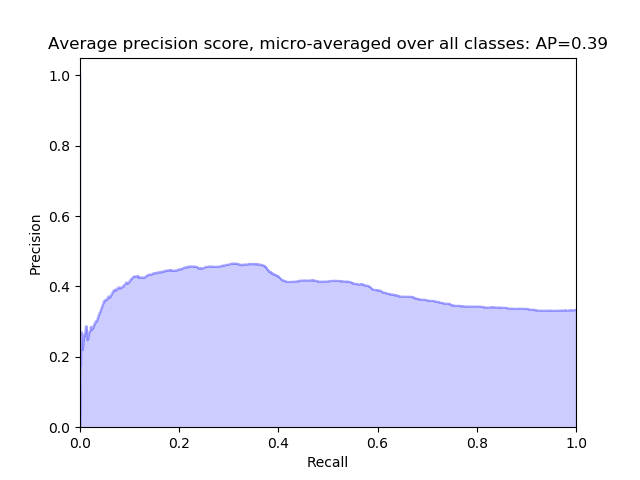
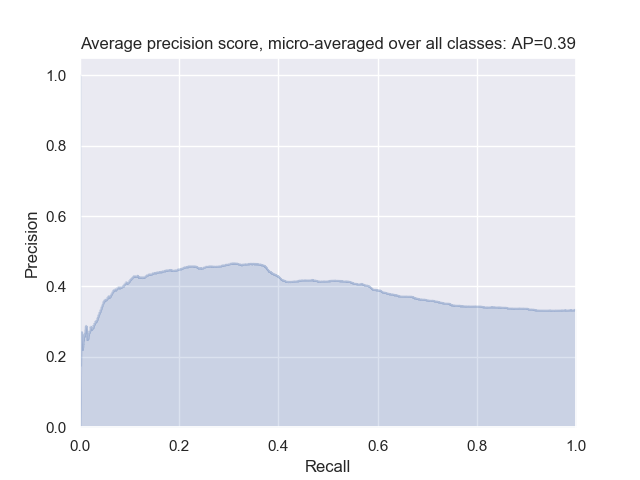
Save

diff --git a/SVM_Classifier/svm_usage.py b/SVM_Classifier/svm_usage.py
@@ -6,21 +6,23 @@ from sklearn.metrics import confusion_matrix, balanced_accuracy_score
 from sklearn.model_selection import train_test_split
 from sklearn.preprocessing import StandardScaler
 from joblib import dump, load
-from openBCI import config as cf
+import config as cf
 from sklearn.metrics import precision_recall_curve
 from sklearn.metrics import average_precision_score
 from sklearn.preprocessing import label_binarize
 import matplotlib.pyplot as plt
 import time
+import seaborn as sns; sns.set()
 from datetime import datetime
+
 def a():
     model = load('../models/SVM_EEG.joblib')
-    data = pd.read_csv(cf.prepared_data_3min)
+    data = pd.read_csv(cf.base_dir+cf.prepared_data_3min)
     X = data.drop(['0'], axis=1)
     y = data[['0']]  # .values.ravel()
     X = np.c_[X]
     print(y.shape)
-    '''
+
     # Feature Scaling
     StdScaler = StandardScaler()
     X_scaled = StdScaler.fit_transform(X)
@@ -64,16 +66,23 @@ def a():
         'Average precision score, micro-averaged over all classes: AP={0:0.2f}'.format(average_precision["micro"]))
     plt.savefig('../Plots/Avg_Prec_scoreSVM.png')
 
+    # Confusion matrix
+    cm = confusion_matrix(y, p)
+    names = (['rest(0)', 'left', 'right'])
+    sns.heatmap(cm, square=True, annot=True, fmt='d', cbar=False,
+                xticklabels=names, yticklabels=names)
+    plt.xlabel('Truth')
+    plt.ylabel('Predicted')
+    plt.savefig('../Plots/Conf_Matrix_SVM.png')
+    plt.show()
+    print("Conf_matrix: ", cm)
+
     # Accuracy
     accu_percent = accuracy_score(y, p) * 100
     print("Accuracy obtained over the whole test set is %0.6f %% ." % (accu_percent))
 
-        # Balanced Accuracy Score
-    blnc = balanced_accuracy_score(y, pred) * 100
+    # Balanced Accuracy Score
+    blnc = balanced_accuracy_score(y, p) * 100
     print("balanced_accuracy_score: %0.6f %% ." % (blnc))
 
-        # Confusion matrix
-    cm = confusion_matrix(y, pred)
-    print("Conf_matrix: ", cm)
-'''
 a()

diff --git a/RandomForest/Random_forest_usage.py b/RandomForest/Random_forest_usage.py
@@ -3,7 +3,7 @@ import pandas as pd
 import numpy as np
 from sklearn.metrics import accuracy_score, balanced_accuracy_score, confusion_matrix
 from sklearn.preprocessing import StandardScaler
-from openBCI import config as cf
+import config as cf
 from sklearn.metrics import precision_recall_curve
 from sklearn.metrics import average_precision_score
 from sklearn.preprocessing import label_binarize
@@ -11,7 +11,7 @@ import matplotlib.pyplot as plt
 import time
 import seaborn as sns; sns.set()
 from datetime import datetime
-from openBCI.Channel_selection import variance
+from Channel_selection import variance
 
 
 def prediction(data: str):
@@ -93,6 +93,7 @@ def prediction(data: str):
                 xticklabels=names, yticklabels=names)
     plt.xlabel('Truth')
     plt.ylabel('Predicted')
+    plt.savefig('../Plots/Conf_Matrix_RandomForest.png')
     plt.show()
     print("Conf_matrix: ", cm)
 

diff --git a/Alternative_GPU_Classifiers/CatBoost_Gradient.py b/Alternative_GPU_Classifiers/CatBoost_Gradient.py
@@ -4,7 +4,7 @@ import catboost.utils as cbu
 import numpy as np
 import pandas as pd
 import tensorflow as tf  # Just for checking if GPU is available :)
-from openBCI import config as cf
+import config as cf
 from sklearn.model_selection import train_test_split
 from sklearn.preprocessing import StandardScaler
 from sklearn.metrics import accuracy_score
@@ -31,7 +31,7 @@ y_test = data_ts[['0']].values.ravel()
 '''
 
 # Get csv data
-data = pd.read_csv(cf.prepared_data_15min_vs)
+data = pd.read_csv(cf.base_dir+cf.prepared_data_15min)
 
 X = data.drop(['0'], axis=1)
 y = data[['0']].values.ravel()
@@ -55,7 +55,7 @@ estimator.fit(X_Train, Y_Train)
 pred = estimator.predict(x_test)
 
 print("Saving model...")
-estimator.save_model('c:/Storage/Mark/openBCI/openBCI/models/CatBoost.mlmodel')
+estimator.save_model(cf.base_dir+'models/CatBoost.mlmodel')
 ac = accuracy_score(y_test, pred)
 
 print(ac)

diff --git a/RandomForest/RandomForest_main.py b/RandomForest/RandomForest_main.py
@@ -3,9 +3,9 @@ from sklearn.metrics import accuracy_score, balanced_accuracy_score
 from sklearn.model_selection import train_test_split
 from sklearn.preprocessing import StandardScaler
 from sklearn.ensemble import RandomForestClassifier
-from openBCI import config as cf
+import config as cf
 from joblib import dump
-from openBCI.Channel_selection import variance
+from Channel_selection.variance import count_variance
 
 # from DataPreparation.main_preparation import data_processing
 
@@ -16,7 +16,7 @@ def RandomForest_fitting():
     X = data.drop(['0'], axis=1)
 
     # Get the channel numbers with the highest variance
-    # channels = variance.count_variance(cf.prepared_data_15min)
+    # channels = count_variance(cf.prepared_data_15min)
 
     # Get features from chosen channels
     # X = data[channels]

diff --git a/Alternative_GPU_Classifiers/CatBoost_usage.py b/Alternative_GPU_Classifiers/CatBoost_usage.py
@@ -4,7 +4,7 @@ import catboost.utils as cbu
 import numpy as np
 import pandas as pd
 import tensorflow as tf  # Just for checking if GPU is available :)
-from openBCI import config as cf
+import config as cf
 from sklearn.model_selection import train_test_split
 from sklearn.preprocessing import StandardScaler
 from sklearn.metrics import accuracy_score
@@ -15,7 +15,7 @@ print("GPU available:", GPU_AVAILABLE)
 
 
 # Get csv data
-data = pd.read_csv(cf.prepared_data_3min)
+data = pd.read_csv(cf.base_dir+cf.prepared_data_3min)
 
 X = data.drop(['0'], axis=1)
 y = data[['0']].values.ravel()

diff --git a/Alternative_GPU_Classifiers/CatBoost_GridSearch.py b/Alternative_GPU_Classifiers/CatBoost_GridSearch.py
@@ -1,7 +1,7 @@
 import catboost as cb
 import numpy as np
 import pandas as pd
-from openBCI import config as cf
+import config as cf
 from sklearn.model_selection import train_test_split
 from sklearn.preprocessing import StandardScaler
 from sklearn.metrics import accuracy_score
@@ -11,7 +11,7 @@ from datetime import datetime
 
 def CatBoost_CV():
     # Get csv data
-    data = pd.read_csv(cf.prepared_data_15min)
+    data = pd.read_csv(cf.base_dir+cf.prepared_data_15min)
 
     X = data.drop(['0'], axis=1)
     y = data[['0']].values.ravel()

diff --git a/Alternative_GPU_Classifiers/KNn.py b/Alternative_GPU_Classifiers/KNn.py
@@ -1,12 +1,12 @@
 from sklearn.neighbors import KNeighborsClassifier, NearestNeighbors
 import pandas as pd
-from openBCI import config as cf
+import config as cf
 from sklearn.model_selection import train_test_split
 from sklearn.preprocessing import StandardScaler
 from sklearn.metrics import accuracy_score
 
 
-data = pd.read_csv(cf.prepared_data_15min)
+data = pd.read_csv(cf.base_dir+cf.prepared_data_15min)
 data_tr = data.loc[:130000]
 data_ts = data.loc[130001:]
 print(data.shape)

diff --git a/Alternative_GPU_Classifiers/LDA.py b/Alternative_GPU_Classifiers/LDA.py
@@ -10,11 +10,11 @@ import pandas as pd
 from sklearn.metrics import accuracy_score, balanced_accuracy_score
 import matplotlib.pyplot as plt
 import seaborn as sns; sns.set()
-from openBCI import config as cf
+import config as cf
 
 # data_processing(cf.raw_data, 29)
 # Get csv data
-data = pd.read_csv(cf.prepared_data_15min)
+data = pd.read_csv(cf.base_dir+cf.prepared_data_15min)
 
 X = data.drop(['0'], axis=1)
 y = data['0']#.values.ravel()

diff --git a/Alternative_GPU_Classifiers/NaiveBayes.py b/Alternative_GPU_Classifiers/NaiveBayes.py
@@ -7,11 +7,11 @@ import pandas as pd
 from sklearn.metrics import accuracy_score, balanced_accuracy_score
 import matplotlib.pyplot as plt
 import seaborn as sns; sns.set()
-from openBCI import config as cf
+import config as cf
 
 # data_processing(cf.raw_data, 29)
 # Get csv data
-data = pd.read_csv(cf.prepared_data_15min)
+data = pd.read_csv(cf.base_dir+cf.prepared_data_15min)
 
 X = data.drop(['0'], axis=1)
 y = data[['0']].values.ravel()

diff --git a/Alternative_GPU_Classifiers/xg_boost.py b/Alternative_GPU_Classifiers/xg_boost.py
@@ -1,13 +1,13 @@
 import xgboost as xgb
 import numpy as np
 import pandas as pd
-from openBCI import config as cf
+import config as cf
 from sklearn.model_selection import train_test_split
 from sklearn.preprocessing import StandardScaler
 import time
 
 # Get csv data
-data = pd.read_csv(cf.prepared_data_15min)
+data = pd.read_csv(cf.base_dir+cf.prepared_data_15min)
 
 X = data.drop(['0'], axis=1)
 y = data[['0']].values.ravel()

diff --git a/Channel_selection/variance.py b/Channel_selection/variance.py
@@ -1,7 +1,5 @@
-import pandas as pd
 import statistics
-from openBCI import config as cf
-
+import config as cf
 import pandas as pd
 import scipy.stats
 
